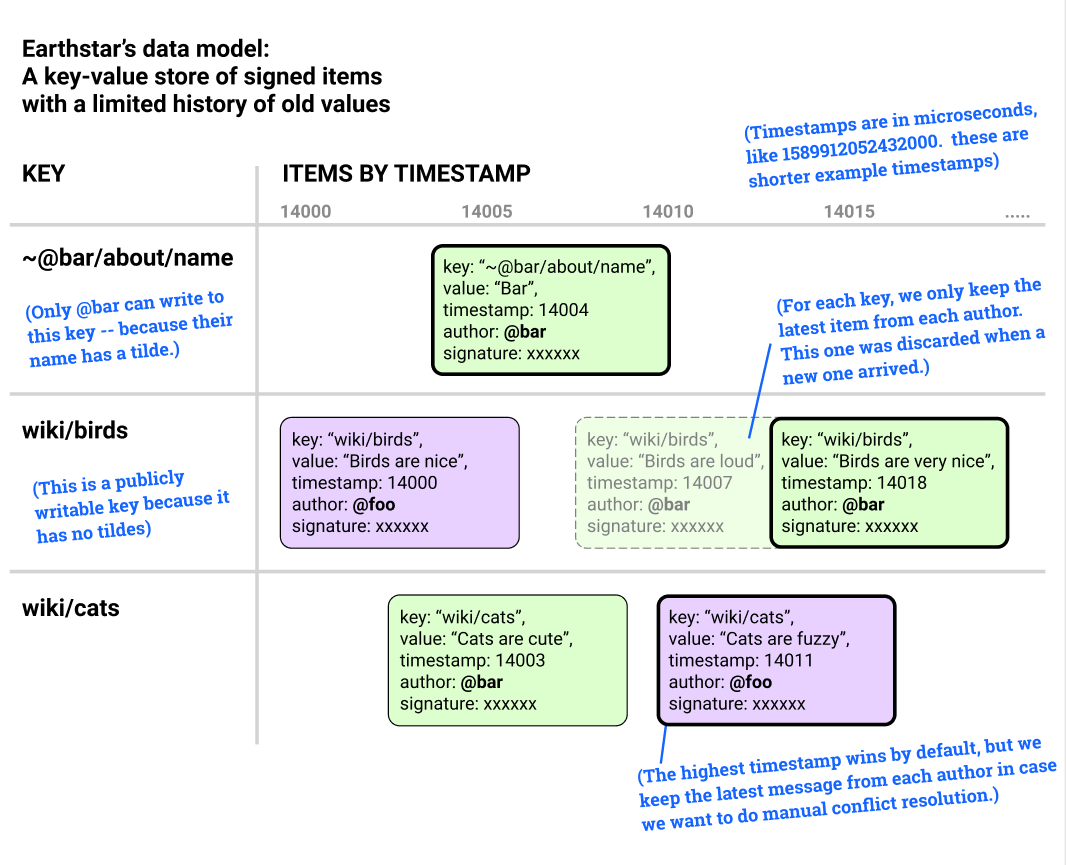
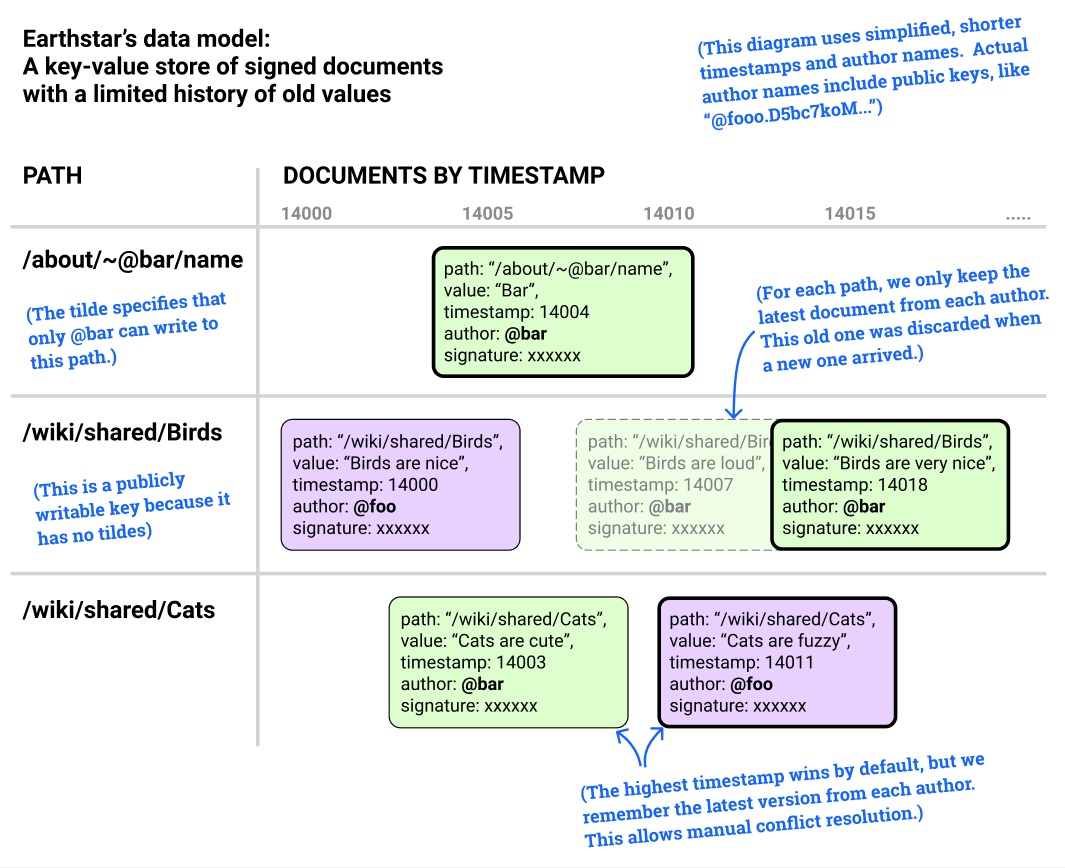
update data model diagram

diff --git a/README.md b/README.md
@@ -1,7 +1,7 @@
 
 # Earthstar
 
-![](earthstar-logo.png)
+![](docs/earthstar-logo.png)
 
 
 *Early alpha - do not use for important data yet*
@@ -21,7 +21,7 @@ An Earthstar workspace holds mutable documents with unique paths, similar to lev
 
 There are no transactions.  The unit of atomic change is writing a value to one path.  Causal order is not preserved for edits across multiple paths.
 
-![](earthstar-data-model.png)
+![](docs/earthstar-data-model.png)
 
 ### Scope
 
